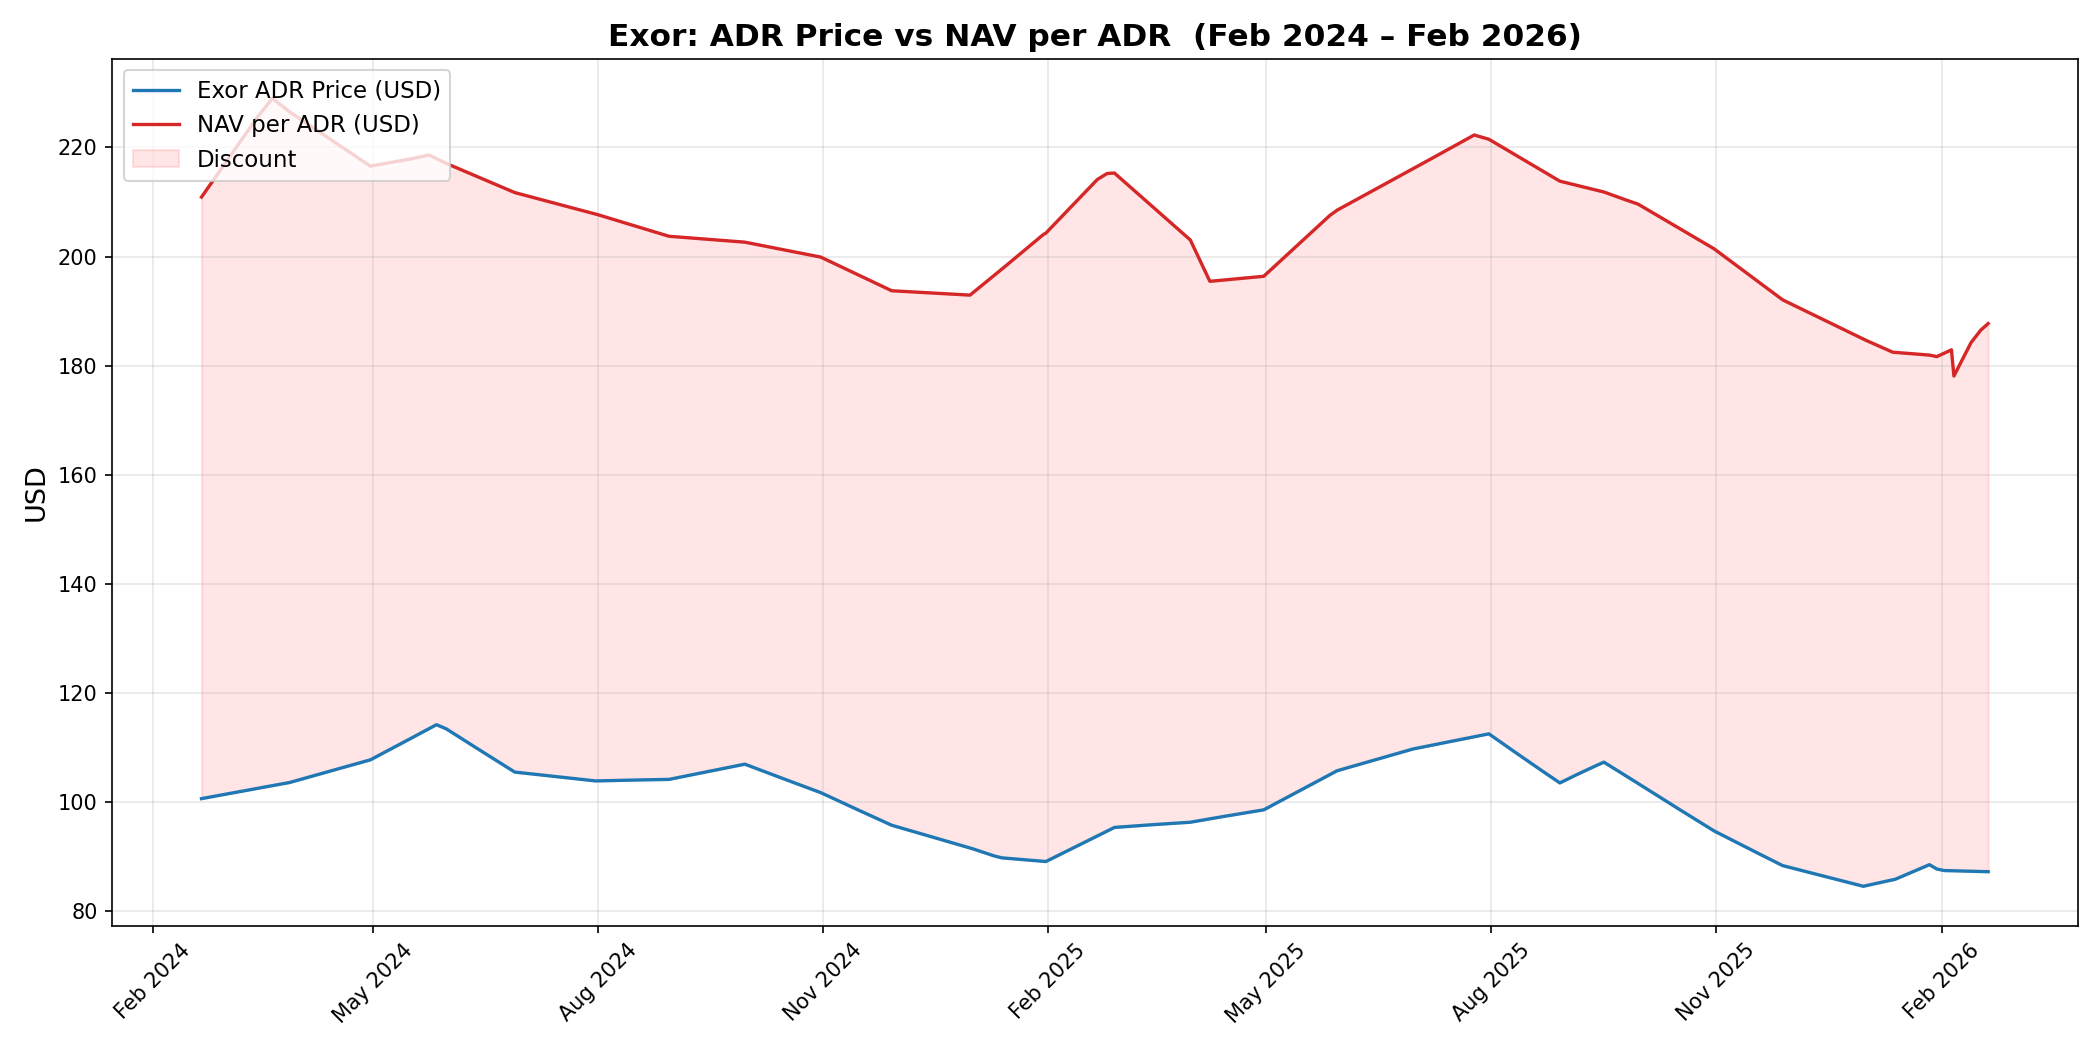
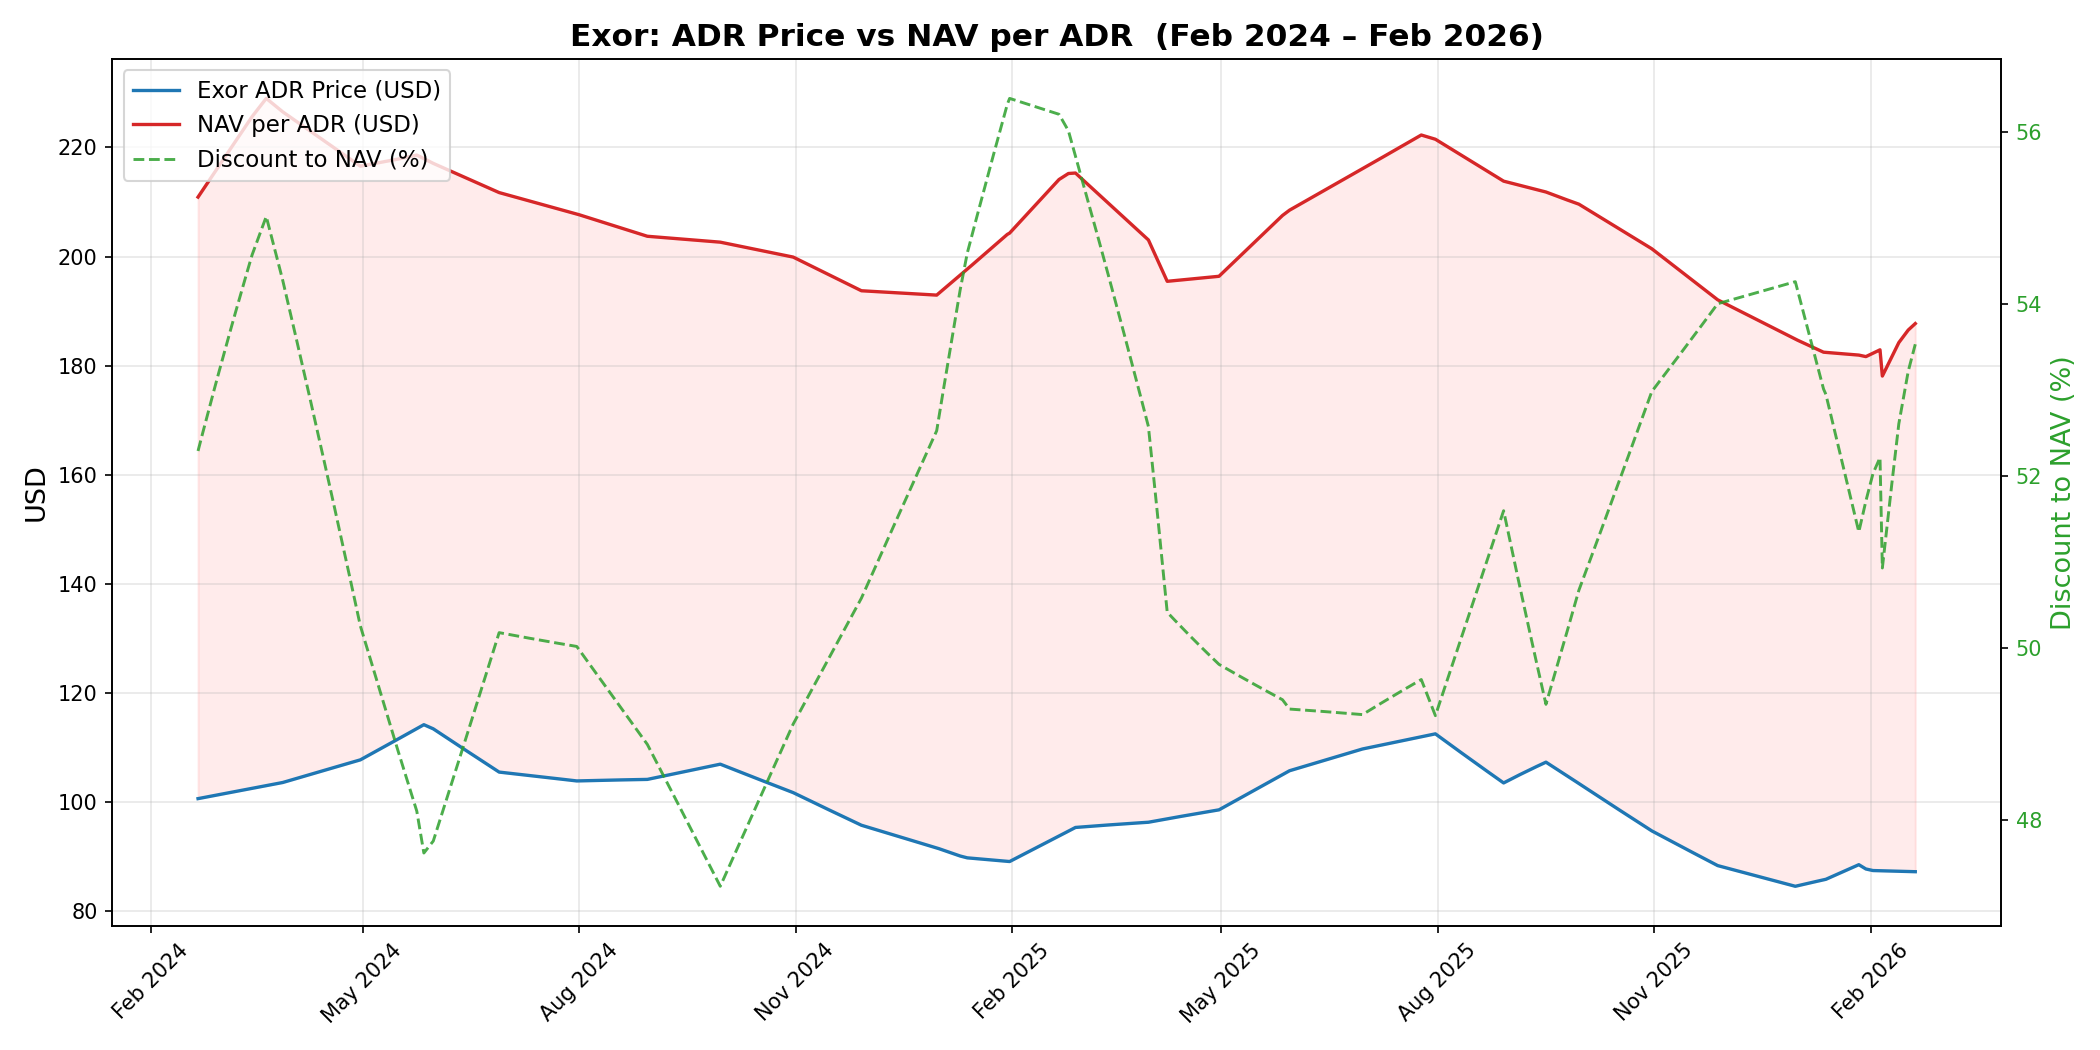
Add discount-to-NAV line on right Y-axis
Green dashed line shows the holding company discount (%) on a
secondary right-hand axis, alongside the existing blue (ADR price)
and red (NAV per ADR) lines on the left USD axis.

https://claude.ai/code/session_011nmT8G6RcPr3Kt8iyNHA7R

diff --git a/exor_holdings_chart.py b/exor_holdings_chart.py
@@ -244,34 +244,47 @@ else:
         "NAV per ADR": nav_per_adr,
     }).dropna()
 
+# ── Compute discount % ───────────────────────────────────────────────────
+df["Discount %"] = (1 - df["Exor ADR Price"] / df["NAV per ADR"]) * 100
+
 # ── Print summary ────────────────────────────────────────────────────────
 print(f"Data points: {len(df)} trading days")
 print(f"Latest Exor ADR Price : ${df['Exor ADR Price'].iloc[-1]:,.2f}")
 print(f"Latest NAV per ADR    : ${df['NAV per ADR'].iloc[-1]:,.2f}")
-discount = (1 - df["Exor ADR Price"].iloc[-1] / df["NAV per ADR"].iloc[-1]) * 100
-print(f"Latest discount       : {discount:.1f}%")
+print(f"Latest discount       : {df['Discount %'].iloc[-1]:.1f}%")
 
 # ── Plot ─────────────────────────────────────────────────────────────────
-fig, ax = plt.subplots(figsize=(14, 7))
+fig, ax1 = plt.subplots(figsize=(14, 7))
 
-ax.plot(df.index, df["Exor ADR Price"], color="#1f77b4", linewidth=1.6,
-        label="Exor ADR Price (USD)")
-ax.plot(df.index, df["NAV per ADR"],    color="#d62728", linewidth=1.6,
-        label="NAV per ADR (USD)")
+# Left Y-axis: USD prices
+ax1.plot(df.index, df["Exor ADR Price"], color="#1f77b4", linewidth=1.6,
+         label="Exor ADR Price (USD)")
+ax1.plot(df.index, df["NAV per ADR"],    color="#d62728", linewidth=1.6,
+         label="NAV per ADR (USD)")
+ax1.fill_between(df.index, df["Exor ADR Price"], df["NAV per ADR"],
+                 where=df["NAV per ADR"] > df["Exor ADR Price"],
+                 alpha=0.08, color="red")
 
-# Shade the discount area
-ax.fill_between(df.index, df["Exor ADR Price"], df["NAV per ADR"],
-                where=df["NAV per ADR"] > df["Exor ADR Price"],
-                alpha=0.10, color="red", label="Discount")
-
-ax.set_ylabel("USD", fontsize=13)
-ax.set_title("Exor: ADR Price vs NAV per ADR  (Feb 2024 \u2013 Feb 2026)",
-             fontsize=15, fontweight="bold")
-ax.legend(loc="upper left", fontsize=11)
-ax.grid(True, alpha=0.3)
-ax.xaxis.set_major_formatter(mdates.DateFormatter("%b %Y"))
-ax.xaxis.set_major_locator(mdates.MonthLocator(interval=3))
+ax1.set_ylabel("USD", fontsize=13)
+ax1.set_title("Exor: ADR Price vs NAV per ADR  (Feb 2024 \u2013 Feb 2026)",
+              fontsize=15, fontweight="bold")
+ax1.grid(True, alpha=0.3)
+ax1.xaxis.set_major_formatter(mdates.DateFormatter("%b %Y"))
+ax1.xaxis.set_major_locator(mdates.MonthLocator(interval=3))
 plt.xticks(rotation=45)
+
+# Right Y-axis: Discount %
+ax2 = ax1.twinx()
+ax2.plot(df.index, df["Discount %"], color="#2ca02c", linewidth=1.4,
+         linestyle="--", alpha=0.85, label="Discount to NAV (%)")
+ax2.set_ylabel("Discount to NAV (%)", fontsize=13, color="#2ca02c")
+ax2.tick_params(axis="y", labelcolor="#2ca02c")
+
+# Combined legend
+lines1, labels1 = ax1.get_legend_handles_labels()
+lines2, labels2 = ax2.get_legend_handles_labels()
+ax1.legend(lines1 + lines2, labels1 + labels2, loc="upper left", fontsize=11)
+
 plt.tight_layout()
 
 out_path = "exor_holdings_chart.png"
